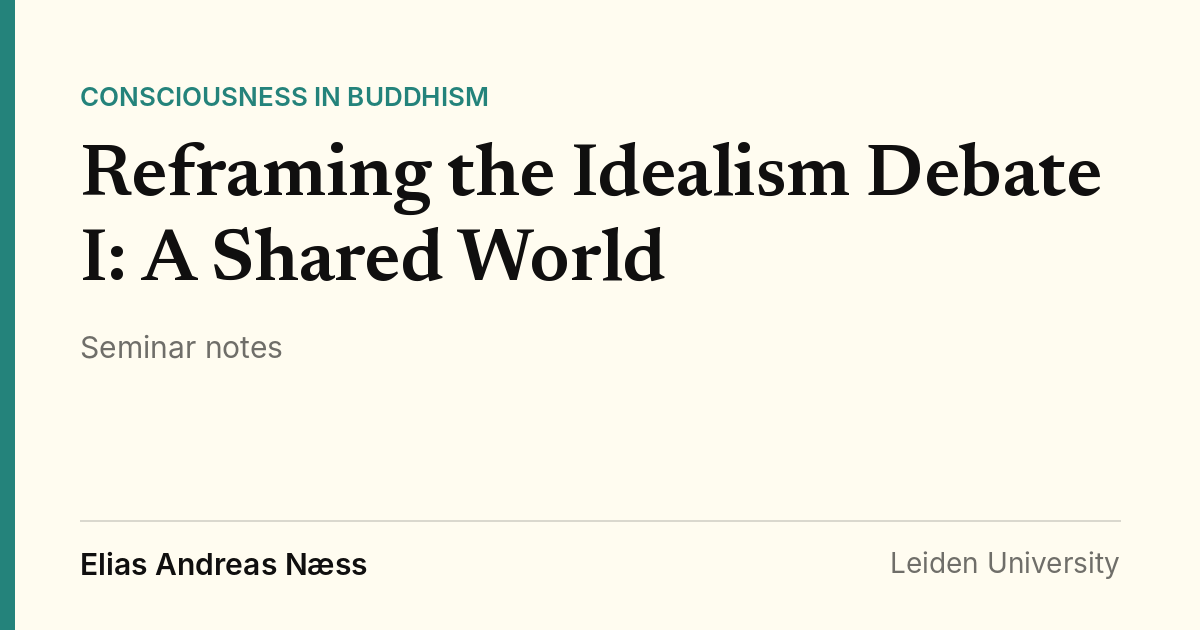
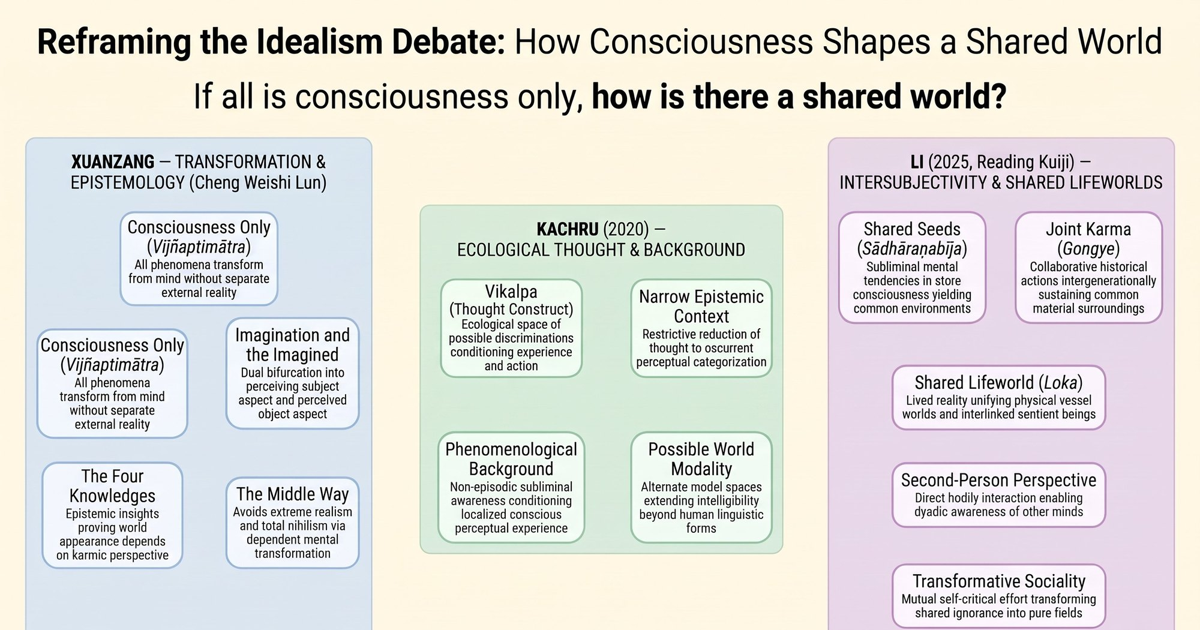
Buddhism week 10: add three checked infographics
Claude-Session: https://claude.ai/code/session_01CqBgnktl4hzscfaxvndsyn

diff --git a/docs/courses/consciousness-in-buddhism/2026-11-19-a-shared-world/index.html b/docs/courses/consciousness-in-buddhism/2026-11-19-a-shared-world/index.html
@@ -24,7 +24,7 @@
 <h3>The readings</h3><table class="reads"><tr><td class="who">Xuanzang (1999)</td><td><b>Demonstration of Consciousness Only, ch. VII &#x27;Consciousness Only&#x27; (trans. Francis Cook, Three Texts on Consciousness Only, BDK)</b> · pp. 233–240<br><span class="d">The core arguments, scriptural and rational, for consciousness only, and the first replies to objections.</span></td></tr><tr><td class="who">Sonam Kachru (2020)</td><td><b>As if a Stage: Towards an Ecological Concept of Thought in Indian Buddhist Philosophy</b> · Journal of World Philosophies 5: 1–29<br><span class="d">Vikalpa can name the stage on which a world appears, not only the act of conceptualising it.</span></td></tr><tr><td class="who">Jingjing Li (2025)</td><td><b>What is shared by bodhisattvas and their target audience? Second-person experience and transformative sociality in Chinese Yogācāra</b> · Journal of Buddhist Philosophy 7: 29–52<br><span class="d">Kuiji&#x27;s shared lifeworld rests on I-we interdependence, so it can be transformed together.</span></td></tr></table>
 <div class="arc-wrap"><h3>Where this fits in the course</h3><p>Weeks 8 and 9 built Xuanzang&#x27;s model of eight consciousnesses: the store consciousness, manas and the six sense consciousnesses, with Jiang&#x27;s &#x27;qualified metaphysical idealism&#x27; and the remote object. This week asks the question that model raises: if all is consciousness only, how is there a world we share? Xuanzang argues the thesis, Kachru widens what &#x27;thought&#x27; (vikalpa) can mean, and Li reads Kuiji on a shared, transformable lifeworld. It sets up Week 11 on Buddhist illusionism and the two modernity weeks, where Li&#x27;s transformative sociality returns in humanistic Buddhism and gender.</p><ol class="arc"><li class="past" title="Buddhist Philosophy of Consciousness in its Historical Context"><span class="num">1</span><span class="tp">Buddhist Philosophy of Consciousness in its Historical Context</span></li><li class="past" title="Consciousness as Dharma: Abhidharma Taxonomy in the Kośa"><span class="num">2</span><span class="tp">Consciousness as Dharma: Abhidharma Taxonomy in the Kośa</span></li><li class="past" title="Sarvāstivāda Epistemology: Does the Eye See?"><span class="num">3</span><span class="tp">Sarvāstivāda Epistemology: Does the Eye See?</span></li><li class="past" title="Sarvāstivāda Metaphysics: Temporality"><span class="num">4</span><span class="tp">Sarvāstivāda Metaphysics: Temporality</span></li><li class="past" title="The Yogācāra Refutation of Early Buddhist Realism"><span class="num">5</span><span class="tp">The Yogācāra Refutation of Early Buddhist Realism</span></li><li class="past" title="Early Chinese Yogācāra I: Paramārtha&#x27;s Philosophy of Mind"><span class="num">6</span><span class="tp">Early Chinese Yogācāra I: Paramārtha&#x27;s Philosophy of Mind</span></li><li class="past" title="Early Chinese Yogācāra II: Consciousness and Tathāgatagarbha"><span class="num">7</span><span class="tp">Early Chinese Yogācāra II: Consciousness and Tathāgatagarbha</span></li><li class="past" title="Later Chinese Yogācāra I: Redefining Consciousness"><span class="num">8</span><span class="tp">Later Chinese Yogācāra I: Redefining Consciousness</span></li><li class="past" title="Later Chinese Yogācāra II: Intentional Structure of Consciousness"><span class="num">9</span><span class="tp">Later Chinese Yogācāra II: Intentional Structure of Consciousness</span></li><li class="now" title="Reframing the Idealism Debate I: A Shared World"><span class="num">10</span><span class="tp">Reframing the Idealism Debate I: A Shared World</span></li><li class="next" title="Reframing the Idealism Debate II: Buddhist Illusionism"><span class="num">11</span><span class="tp">Reframing the Idealism Debate II: Buddhist Illusionism</span></li><li class="next" title="Yogācāra in Modernity: Humanistic Buddhism"><span class="num">12</span><span class="tp">Yogācāra in Modernity: Humanistic Buddhism</span></li><li class="next" title="Yogācāra in Modernity: Gendering Buddhist Modernism"><span class="num">13</span><span class="tp">Yogācāra in Modernity: Gendering Buddhist Modernism</span></li></ol></div>
 </section>
-<section id="step-2" class="step"><h2><span class="n">2</span> Look</h2></section>
+<section id="step-2" class="step"><h2><span class="n">2</span> Look</h2><figure class="media img"><a href="infographic-1.jpg" target="_blank" rel="noopener"><img src="infographic-1.jpg" alt="Reframing the Idealism Debate I: A Shared World — Infographic 1 of 3" loading="lazy"></a><figcaption>Infographic 1 of 3 · tap to open full size</figcaption></figure><figure class="media img"><a href="infographic-2.jpg" target="_blank" rel="noopener"><img src="infographic-2.jpg" alt="Reframing the Idealism Debate I: A Shared World — Infographic 2 of 3" loading="lazy"></a><figcaption>Infographic 2 of 3 · tap to open full size</figcaption></figure><figure class="media img"><a href="infographic-3.jpg" target="_blank" rel="noopener"><img src="infographic-3.jpg" alt="Reframing the Idealism Debate I: A Shared World — Infographic 3 of 3" loading="lazy"></a><figcaption>Infographic 3 of 3 · tap to open full size</figcaption></figure></section>
 <section id="step-3" class="step">
 <h2><span class="n">3</span> Test your understanding</h2>
 <p class="hint">4 quick questions, then 2 to answer in your own words. Nothing is saved or sent.</p>

diff --git a/docs/classroom/index.html b/docs/classroom/index.html
@@ -9,7 +9,7 @@
 </head><body>
 <header class="top"><a class="home" href="../index.html">Elias Andreas Næss</a><nav><a href="../classroom/index.html">Classroom</a><a href="../index.html#papers">Papers</a><a href="../index.html#courses">Courses</a></nav></header>
 <main><article class="course"><p class="kicker">Leiden University · Seminar companions</p><h1>The Classroom</h1><p class="lead">One page per seminar: what the readings ask, the key concepts and cases, two podcast takes, and a short quiz to check you got it. Read, listen, test.</p><h2>Consciousness in Buddhism</h2><ul class="list"><li><a href="../courses/consciousness-in-buddhism/2026-11-19-a-shared-world/index.html"><span class="t">Reframing the Idealism Debate I: A Shared World</span>
-<span class="meta">Consciousness in Buddhism · Week 10 · 19 Nov 2026 · Brief · Quiz</span></a></li><li><a href="../courses/consciousness-in-buddhism/2026-11-12-intentional-structure-of-consciousness/index.html"><span class="t">Later Chinese Yogācāra II: The Intentional Structure of Consciousness</span>
+<span class="meta">Consciousness in Buddhism · Week 10 · 19 Nov 2026 · Brief · Infographic · Quiz</span></a></li><li><a href="../courses/consciousness-in-buddhism/2026-11-12-intentional-structure-of-consciousness/index.html"><span class="t">Later Chinese Yogācāra II: The Intentional Structure of Consciousness</span>
 <span class="meta">Consciousness in Buddhism · Week 9 · 12 Nov 2026 · Brief · Infographic · Quiz</span></a></li></ul><h2>Qualitative Methods in Political Science</h2><ul class="list"><li><a href="../courses/qualitative-methods/2026-11-16-field-ethics-ethnography/index.html"><span class="t">Ethics of Field Research; Ethnographic Research</span>
 <span class="meta">Qualitative Methods in Political Science · Week 4 · 16 Nov 2026 · Brief · Podcast · Infographic · Quiz</span></a></li><li><a href="../courses/qualitative-methods/2026-11-16-quiz-prep/index.html"><span class="t">Quiz Prep: Weeks 1–3</span>
 <span class="meta">Qualitative Methods in Political Science · Week 4 · 16 Nov 2026 · Quiz prep · 65 questions · Flashcards · Mock quiz</span></a></li><li><a href="../courses/qualitative-methods/2026-11-09-process-tracing/index.html"><span class="t">Process Tracing: Within-Case Methods</span>

diff --git a/docs/index.html b/docs/index.html
@@ -14,7 +14,7 @@
 </section>
 <blockquote class="question"><span>The question underneath my work</span>What justifies the power that institutions exercise over people&#x27;s lives?</blockquote>
 <section id="seminars"><h2>The Classroom <a class="more-link" href="classroom/index.html">all seminars →</a></h2><ul class="list"><li><a href="courses/consciousness-in-buddhism/2026-11-19-a-shared-world/index.html"><span class="t">Reframing the Idealism Debate I: A Shared World</span>
-<span class="meta">Consciousness in Buddhism · Week 10 · 19 Nov 2026 · Brief · Quiz</span></a></li><li><a href="courses/weak-institutions/2026-11-19-non-compliance/index.html"><span class="t">Non-Compliance</span>
+<span class="meta">Consciousness in Buddhism · Week 10 · 19 Nov 2026 · Brief · Infographic · Quiz</span></a></li><li><a href="courses/weak-institutions/2026-11-19-non-compliance/index.html"><span class="t">Non-Compliance</span>
 <span class="meta">Weak Institutions · Class 8 · 19 Nov 2026 · Brief · Quiz</span></a></li><li><a href="courses/weak-institutions/2026-11-17-delegation-discretion-agency/index.html"><span class="t">Delegation, Discretion, Ambiguity and Agency</span>
 <span class="meta">Weak Institutions · Class 7 · 17 Nov 2026 · Brief · Quiz</span></a></li><li><a href="courses/qualitative-methods/2026-11-16-field-ethics-ethnography/index.html"><span class="t">Ethics of Field Research; Ethnographic Research</span>
 <span class="meta">Qualitative Methods in Political Science · Week 4 · 16 Nov 2026 · Brief · Podcast · Infographic · Quiz</span></a></li><li><a href="courses/qualitative-methods/2026-11-16-quiz-prep/index.html"><span class="t">Quiz Prep: Weeks 1–3</span>

diff --git a/docs/courses/consciousness-in-buddhism/index.html b/docs/courses/consciousness-in-buddhism/index.html
@@ -12,7 +12,7 @@
 <p class="kicker">Fall 2026 · Leiden University</p><h1>Consciousness in Buddhism</h1><p class="lead">Abhidharma and Yogācāra theories of mind; Vasubandhu.</p>
 <div class="bar"><span>2 seminars · 0 papers</span><span class="actions"><button class="share" data-share>Share link</button></span></div>
 <h2>Seminar materials</h2><ul class="list"><li><a href="../../courses/consciousness-in-buddhism/2026-11-19-a-shared-world/index.html"><span class="t">Reframing the Idealism Debate I: A Shared World</span>
-<span class="meta">Consciousness in Buddhism · Week 10 · 19 Nov 2026 · Brief · Quiz</span></a></li><li><a href="../../courses/consciousness-in-buddhism/2026-11-12-intentional-structure-of-consciousness/index.html"><span class="t">Later Chinese Yogācāra II: The Intentional Structure of Consciousness</span>
+<span class="meta">Consciousness in Buddhism · Week 10 · 19 Nov 2026 · Brief · Infographic · Quiz</span></a></li><li><a href="../../courses/consciousness-in-buddhism/2026-11-12-intentional-structure-of-consciousness/index.html"><span class="t">Later Chinese Yogācāra II: The Intentional Structure of Consciousness</span>
 <span class="meta">Consciousness in Buddhism · Week 9 · 12 Nov 2026 · Brief · Infographic · Quiz</span></a></li></ul>
 
 </article></main>

diff --git a/content/courses/consciousness-in-buddhism/2026-11-19-a-shared-world/index.md b/content/courses/consciousness-in-buddhism/2026-11-19-a-shared-world/index.md
@@ -10,4 +10,4 @@ summary: If everything is consciousness only, how do we share a world? Xuanzang 
 - Sonam Kachru (2020), "As if a Stage: Towards an Ecological Concept of Thought in Indian Buddhist Philosophy", *Journal of World Philosophies* 5: 1–29
 - Jingjing Li (2025), "What is shared by bodhisattvas and their target audience? Second-person experience and transformative sociality in Chinese Yogācāra", *Journal of Buddhist Philosophy* 7: 29–52
 
-Podcasts and infographics for this seminar are on their way.
+**Where to start:** the three infographics map the week: a concept map, the three authors side by side, and their argument chains. Then try *Test yourself*. The podcasts follow once audio hosting is set up.
